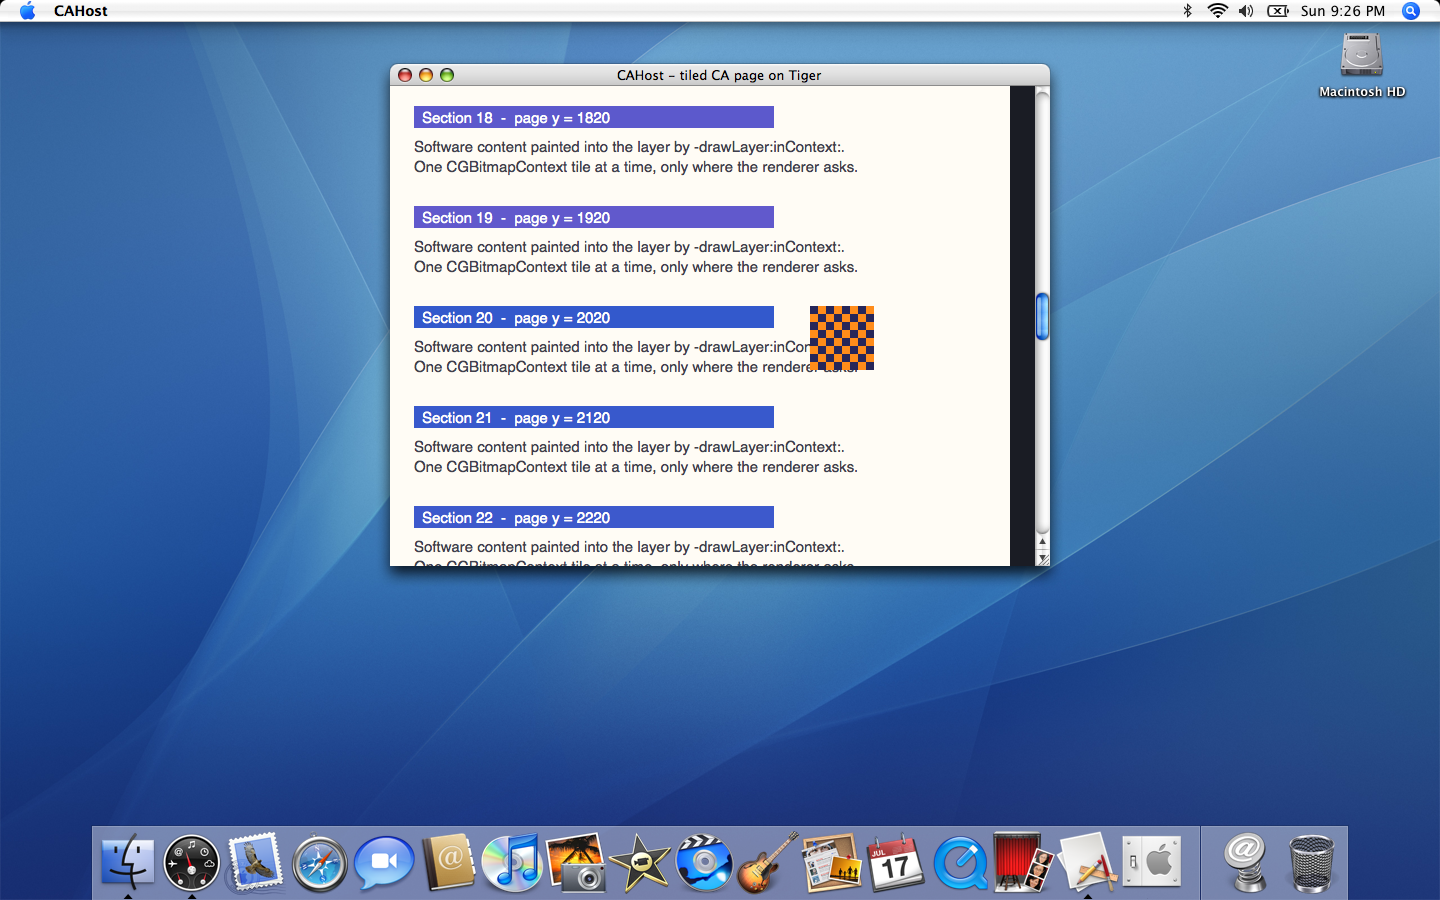
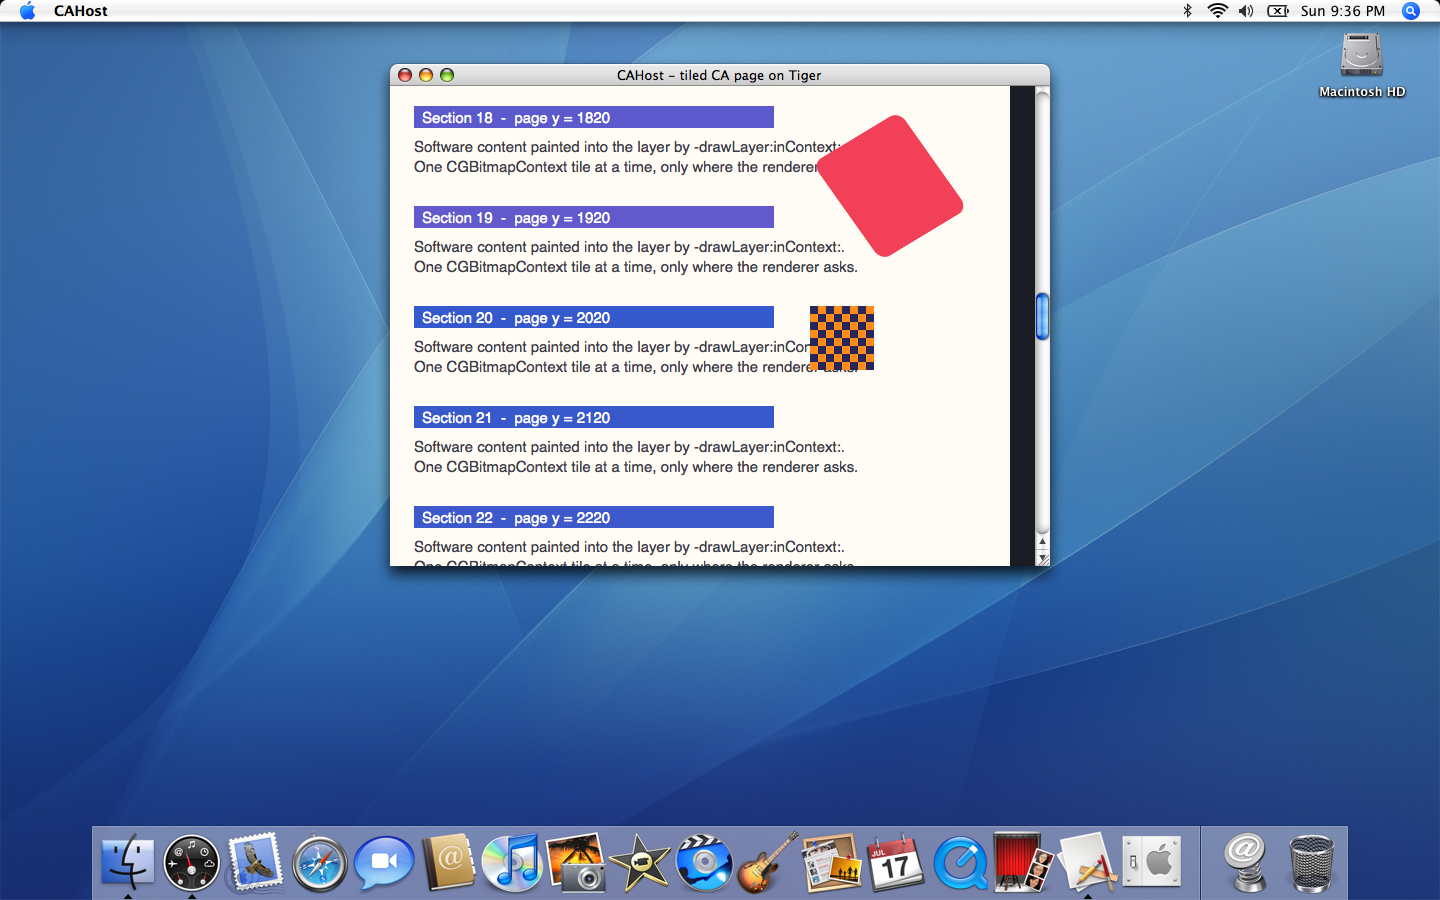
spike/CAHost: hybrid drawRect backing store + tiled page + scrolling
Models WebKitLegacy's compositing shape on Tiger, following the 2009 WebKit1
hosting code: a viewport CALayer (masksToBounds, geometryFlipped) holding a
620x4000 "page" whose software content is painted through -drawLayer:inContext:
into per-tile CGBitmapContext backing stores, with composited overlays on top in
page coordinates, NSScroller/scroll-wheel scrolling by the viewport's bounds
origin, window resize, and a page-coordinate hit test.

Three findings from CA 1.6 on the box:
- CATiledLayer exists and its delegate is called, but its tiles never composite
  under CARenderer. Replaced with a manual 3x16 grid of CALayers that paint on
  demand and drop their backing store when scrolled away.
- Siblings with a non-affine CATransform3D are depth sorted, not painted in
  sublayer order, so a rotated layer renders behind its opaque siblings unless
  it carries a zPosition.
- setGeometryFlipped: works and cascades to the whole subtree, but there is no
  -geometryFlipped getter; read it with valueForKey:.

Claude-Session: https://claude.ai/code/session_01RHwCbDKQLvzXACuucjKev6

Changed region(s): [[0.5625, 0.1244, 0.6875, 0.28]]

diff --git a/spike/CAHost/CAHost.m b/spike/CAHost/CAHost.m
@@ -223,13 +223,11 @@ static void paintPage(CGContextRef ctx, CGRect dirty)
     [_viewport setAnchorPoint:CGPointMake(0, 0)];
     [_viewport setPosition:CGPointMake(0, 0)];
     [_viewport setBounds:CGRectMake(0, 0, b.size.width, b.size.height)];
-    [_viewport setMasksToBounds:getenv("CAHOST_NOMASK") ? NO : YES];
+    [_viewport setMasksToBounds:YES];
     // AppKit is top-left / y-down, CA is bottom-left / y-up. Flipping the
     // viewport's geometry makes every sublayer below it lay out in page
     // coordinates with y growing downward, which is what WebCore hands us.
-    if (getenv("CAHOST_NOFLIP"))
-        fprintf(stderr, "NOTE: geometryFlipped disabled\n");
-    else if ([_viewport respondsToSelector:@selector(setGeometryFlipped:)])
+    if ([_viewport respondsToSelector:@selector(setGeometryFlipped:)])
         [_viewport setGeometryFlipped:YES];
     else
         fprintf(stderr, "NOTE: no setGeometryFlipped:, flipping by hand\n");
@@ -290,37 +288,22 @@ static void paintPage(CGContextRef ctx, CGRect dirty)
     _spin = [[CALayer layer] retain];
     [_spin setName:@"spin"];
     [_spin setBounds:CGRectMake(0, 0, 120, 120)];
-    [_spin setPosition:CGPointMake(500, getenv("CAHOST_SPINTOP") ? 400 : 1900)];
+    [_spin setPosition:CGPointMake(500, 1900)];
     c = makeColor(0.95, 0.25, 0.35, 1);
     [_spin setBackgroundColor:c];
     CGColorRelease(c);
     [_spin setCornerRadius:12];
-    // Under a geometryFlipped ancestor the flip inverts the determinant, so a
-    // rotated layer presents its back face and CA 1.6 culls it. Tiger's CALayer
-    // defaults doubleSided to NO here; WebCore sets it explicitly anyway.
+    // Two things CA 1.6 needs that modern CA does not:
+    //  - doubleSided: the flip in a geometryFlipped ancestor inverts the
+    //    winding, so a rotated layer can present its back face.
+    //  - zPosition: siblings carrying a non-affine CATransform3D are depth
+    //    sorted, not painted in sublayer order. Half of a rotation's z range is
+    //    negative, so without a zPosition the layer renders *behind* its own
+    //    opaque siblings (the tiles) and looks like it vanished. GraphicsLayerCA
+    //    sets zPosition anyway; on Tiger it is mandatory.
     [_spin setDoubleSided:YES];
-    if (getenv("CAHOST_2D"))
-        ;
-    if (getenv("CAHOST_SPINROOT")) {
-        // Depth probe: same layer, same transform, but a direct child of the
-        // layer handed to CARenderer.
-        [_spin setPosition:CGPointMake(500, 240)];
-        [_viewport addSublayer:_spin];
-    } else if (getenv("CAHOST_NOTL")) {
-        [_page addSublayer:_spin];
-    } else {
-        // CA 1.6 drops a non-affine transform on a plain nested CALayer. Giving
-        // it a CATransformLayer parent (what GraphicsLayerCA does for
-        // preserves-3d) restores it.
-        CATransformLayer *tl = [CATransformLayer layer];
-        [tl setName:@"spin-3d"];
-        [tl setAnchorPoint:CGPointMake(0, 0)];
-        [tl setBounds:CGRectMake(0, 0, 200, 200)];
-        [tl setPosition:CGPointMake(400, getenv("CAHOST_SPINTOP") ? 300 : 1800)];
-        [_spin setPosition:CGPointMake(100, 100)];
-        [tl addSublayer:_spin];
-        [_page addSublayer:tl];
-    }
+    [_spin setZPosition:200];
+    [_page addSublayer:_spin];
 }
 
 // ---- manual tile grid
@@ -614,11 +597,9 @@ static void paintPage(CGContextRef ctx, CGRect dirty)
 
     CFTimeInterval now = CACurrentMediaTime();
 
-    if (!getenv("CAHOST_NO3D")) {
-        CATransform3D t = getenv("CAHOST_2D")
-            ? CATransform3DMakeRotation(now * 1.5, 0, 0, 1)
-            : CATransform3DMakeRotation(now * 1.5, 0.3, 1.0, 0.15);
-        t.m34 = getenv("CAHOST_M34") ? atof(getenv("CAHOST_M34")) : -1.0 / 600.0;
+    {
+        CATransform3D t = CATransform3DMakeRotation(now * 1.5, 0.3, 1.0, 0.15);
+        t.m34 = -1.0 / 600.0;
         [_spin setTransform:t];
     }
 
@@ -661,11 +642,6 @@ static void paintPage(CGContextRef ctx, CGRect dirty)
     }
 
     if (_frames >= 60) {
-        CALayer *pl = [_spin presentationLayer];
-        CATransform3D pt = pl ? [pl transform] : CATransform3DIdentity;
-        fprintf(stderr, "  spin pres=%p pos=(%.0f,%.0f) m11=%.3f m13=%.3f m34=%.5f\n",
-                pl, pl ? [pl position].x : -1, pl ? [pl position].y : -1,
-                pt.m11, pt.m13, pt.m34);
         fprintf(stderr,
                 "CA render %.2f ms + swap %.2f ms | painted %u tiles, %.2f ms/tile,"
                 " %d live | rss %.1f MB\n",
